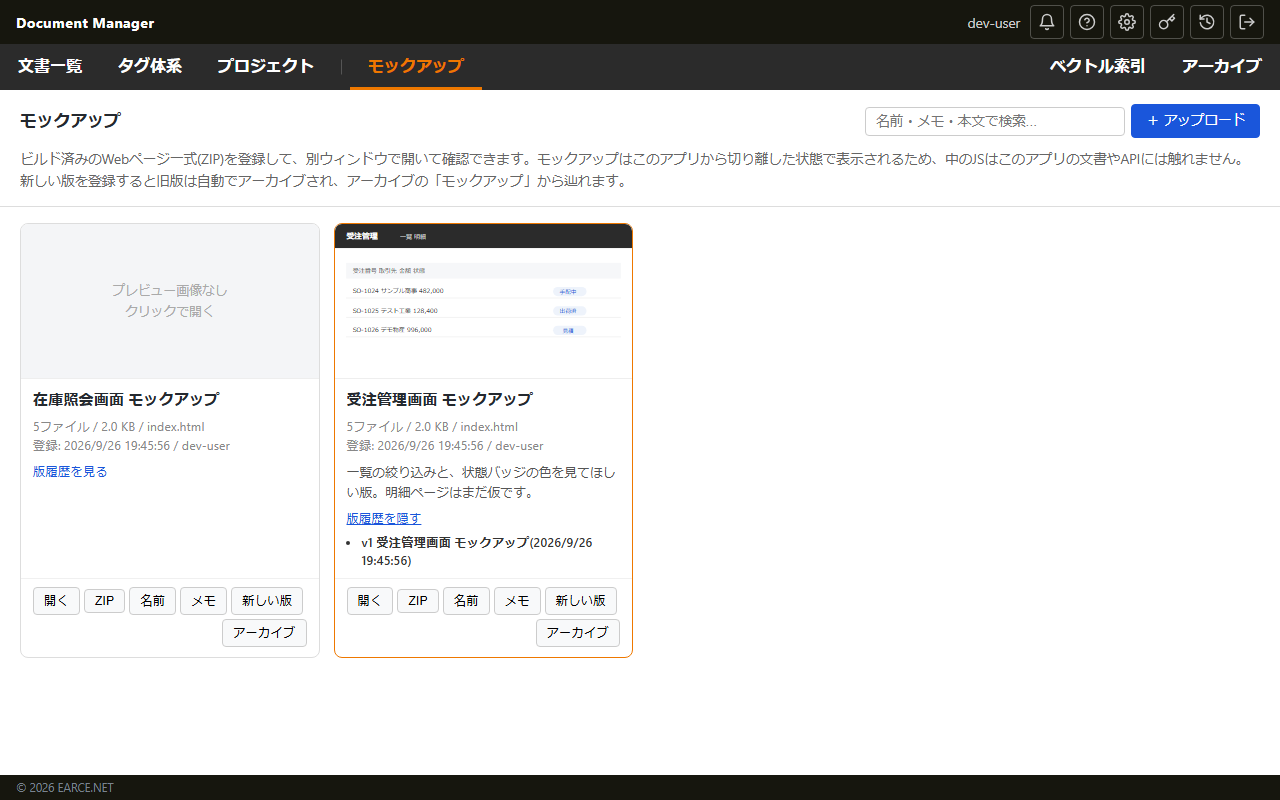
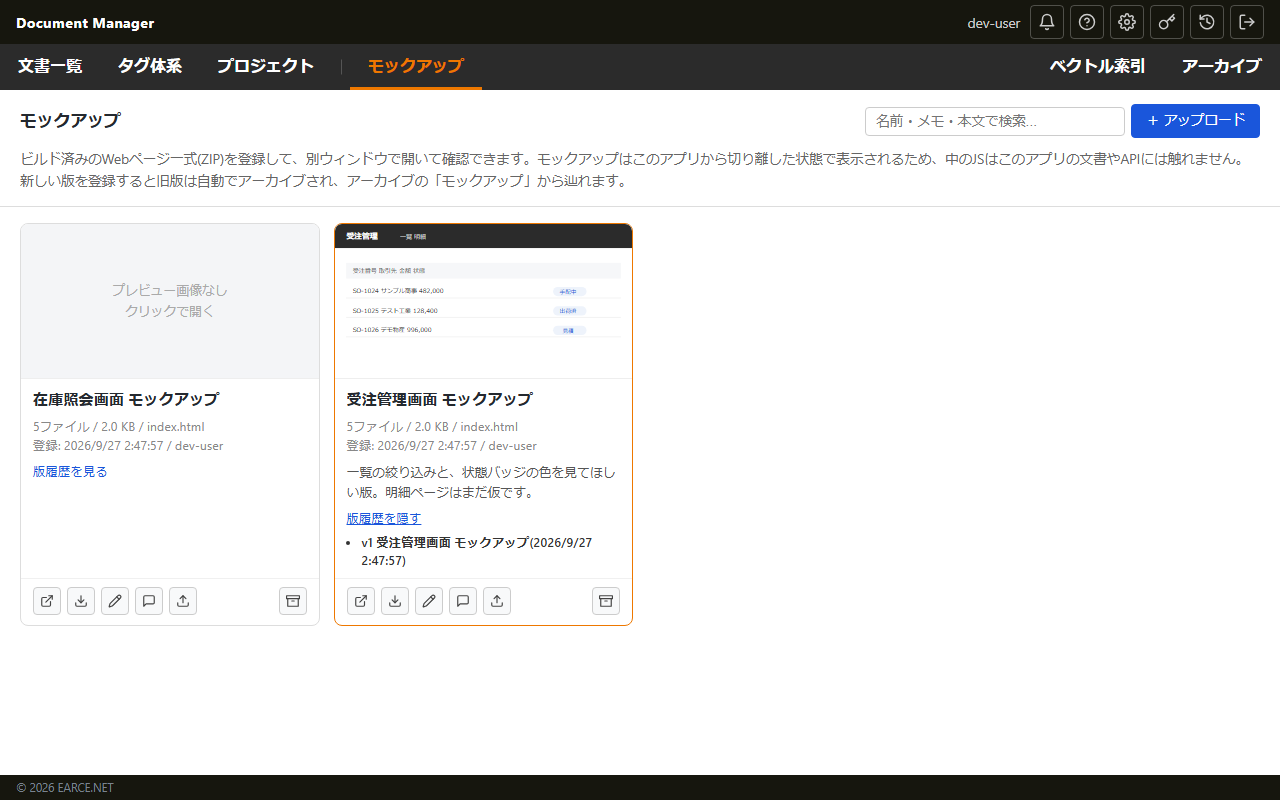
モックアップカードの操作をアイコンにした
文字のボタンが6つ並んで2段になり、カードの下半分が操作欄で埋まっていた。
文書一覧のカードと同じアイコンボタンに揃え、1段に収めた。

絵柄はアプリ内の同じ操作から持ってきている(別ウィンドウで開く・ダウンロード・
名前の変更・新しい版・アーカイブ・元に戻す)ので、他の画面で見慣れたものと同じ
意味で読める。メモだけは既存に無かったため、他と重ならない吹き出しにした。

アイコンだけでは意味が伝わらないため、title と aria-label は必ず付ける。
元に戻すはアーカイブと逆向きの操作なので、色で見分けられるようにしている。

diff --git a/app/static/index.html b/app/static/index.html
@@ -349,8 +349,13 @@
 	.mockupVersionsToggle:hover { text-decoration: underline; }
 	.mockupVersionList { margin: 6px 0 0; padding-left: 1.2em; font-size: 0.78em; color: #555; }
 	.mockupVersionList .current { font-weight: 600; color: #333; }
-	.mockupCardActions { display: flex; flex-wrap: wrap; gap: 4px; align-items: center; padding: 8px 12px 10px; border-top: 1px solid #f0f0f0; }
-	.mockupCardActions .modalButton { font-size: 0.78em; padding: 4px 10px; }
+	.mockupCardActions { display: flex; flex-wrap: wrap; gap: 6px; align-items: center; padding: 8px 12px 10px; border-top: 1px solid #f0f0f0; }
+	/* 文書一覧のカードと同じアイコンボタン。文字で並べると6つで2段になり、
+	   カードの下半分が操作欄で埋まってしまうため */
+	.mockupCardActions .iconButton[disabled] { opacity: 0.4; cursor: default; }
+	.mockupCardActions .iconButton svg { width: 16px; height: 16px; display: block; }
+	/* 元に戻すは復帰の操作なので、アーカイブと違って色で分かるようにする */
+	.mockupCardActions .mockupRestoreAction { color: #2f9e44; border-color: #a9dab4; }
 	/* 誤クリック防止のため、アーカイブ/元に戻すは他の操作から離す(文書一覧と同じ考え方) */
 	.mockupCardActions .mockupArchiveAction { margin-left: auto; }
 	#appShell.readOnlyMode .mockupWriteAction { display: none !important; }
@@ -3144,14 +3149,14 @@ const renderMockupList = () => {
 				<div class="mockupVersionsBox"></div>
 			</div>
 			<div class="mockupCardActions">
-				<button type="button" class="modalButton" data-action="open" ${openable ? "" : "disabled"}>開く</button>
-				<button type="button" class="modalButton" data-action="download">ZIP</button>
-				<button type="button" class="modalButton mockupWriteAction" data-action="rename">名前</button>
-				<button type="button" class="modalButton mockupWriteAction" data-action="memo">メモ</button>
+				${iconButton("open", "別ウィンドウで開く", MOCKUP_ICONS.open, {disabled: !openable})}
+				${iconButton("download", "原本のZIPをダウンロード", MOCKUP_ICONS.download)}
+				${iconButton("rename", "名前を変更", MOCKUP_ICONS.rename, {write: true})}
+				${iconButton("memo", "メモを編集", MOCKUP_ICONS.memo, {write: true})}
 				${item.archived
-					? `<button type="button" class="modalButton save mockupWriteAction mockupArchiveAction" data-action="restore">元に戻す</button>`
-					: `<button type="button" class="modalButton mockupWriteAction" data-action="revise">新しい版</button>
-					   <button type="button" class="modalButton mockupWriteAction mockupArchiveAction" data-action="archive">アーカイブ</button>`}
+					? iconButton("restore", "元に戻す", MOCKUP_ICONS.restore, {write: true, extra: "mockupArchiveAction mockupRestoreAction"})
+					: iconButton("revise", "新しい版をアップロード", MOCKUP_ICONS.revise, {write: true})
+						+ iconButton("archive", "アーカイブ", MOCKUP_ICONS.archive, {write: true, extra: "mockupArchiveAction"})}
 			</div>
 		</div>`;
 	}).join("");
@@ -3394,6 +3399,26 @@ const hideManifest = () => {
 	projectTreeTitle.classList.remove("active");
 	manifestEditing = null;
 };
+
+// モックアップのカードの操作アイコン。絵柄はアプリ内の同じ操作から持ってきている
+// (別ウィンドウで開く・ダウンロード・名前の変更・新しい版・アーカイブ・元に戻す)ので、
+// 文書一覧やプレビューで見慣れたものと同じ意味で読める
+const SVG_HEAD = '<svg viewBox="0 0 24 24" fill="none" stroke="currentColor" stroke-width="2" stroke-linecap="round" stroke-linejoin="round">';
+const MOCKUP_ICONS = {
+	open: '<path d="M18 13v6a2 2 0 0 1-2 2H5a2 2 0 0 1-2-2V8a2 2 0 0 1 2-2h6"/><polyline points="15 3 21 3 21 9"/><line x1="10" y1="14" x2="21" y2="3"/>',
+	download: '<path d="M21 15v4a2 2 0 0 1-2 2H5a2 2 0 0 1-2-2v-4"/><polyline points="7 10 12 15 17 10"/><line x1="12" y1="15" x2="12" y2="3"/>',
+	rename: '<path d="M21.174 6.812a1 1 0 0 0-3.986-3.987L3.842 16.174a2 2 0 0 0-.5.83l-1.321 4.352a.5.5 0 0 0 .622.622l4.353-1.32a2 2 0 0 0 .83-.497Z"/><path d="m15 5 4 4"/>',
+	memo: '<path d="M21 15a2 2 0 0 1-2 2H7l-4 4V5a2 2 0 0 1 2-2h14a2 2 0 0 1 2 2z"/>',
+	revise: '<path d="M21 15v4a2 2 0 0 1-2 2H5a2 2 0 0 1-2-2v-4"/><polyline points="17 8 12 3 7 8"/><line x1="12" y1="3" x2="12" y2="15"/>',
+	archive: '<polyline points="21 8 21 21 3 21 3 8"/><rect x="1" y="3" width="22" height="5"/><line x1="10" y1="12" x2="14" y2="12"/>',
+	restore: '<polyline points="9 14 4 9 9 4"/><path d="M20 20v-7a4 4 0 0 0-4-4H4"/>'
+};
+
+// アイコンだけでは意味が伝わらないため、title と aria-label は必ず付ける
+const iconButton = (action, label, icon, {write = false, disabled = false, extra = ""} = {}) =>
+	`<button type="button" class="iconButton ${write ? "mockupWriteAction" : ""} ${extra}"`
+	+ ` data-action="${action}" title="${escapeHtml(label)}" aria-label="${escapeHtml(label)}"`
+	+ `${disabled ? " disabled" : ""}>${SVG_HEAD}${icon}</svg></button>`;
 
 const manifestItemHtml = (doc) => {
 	const name = doc.entryFile != null
